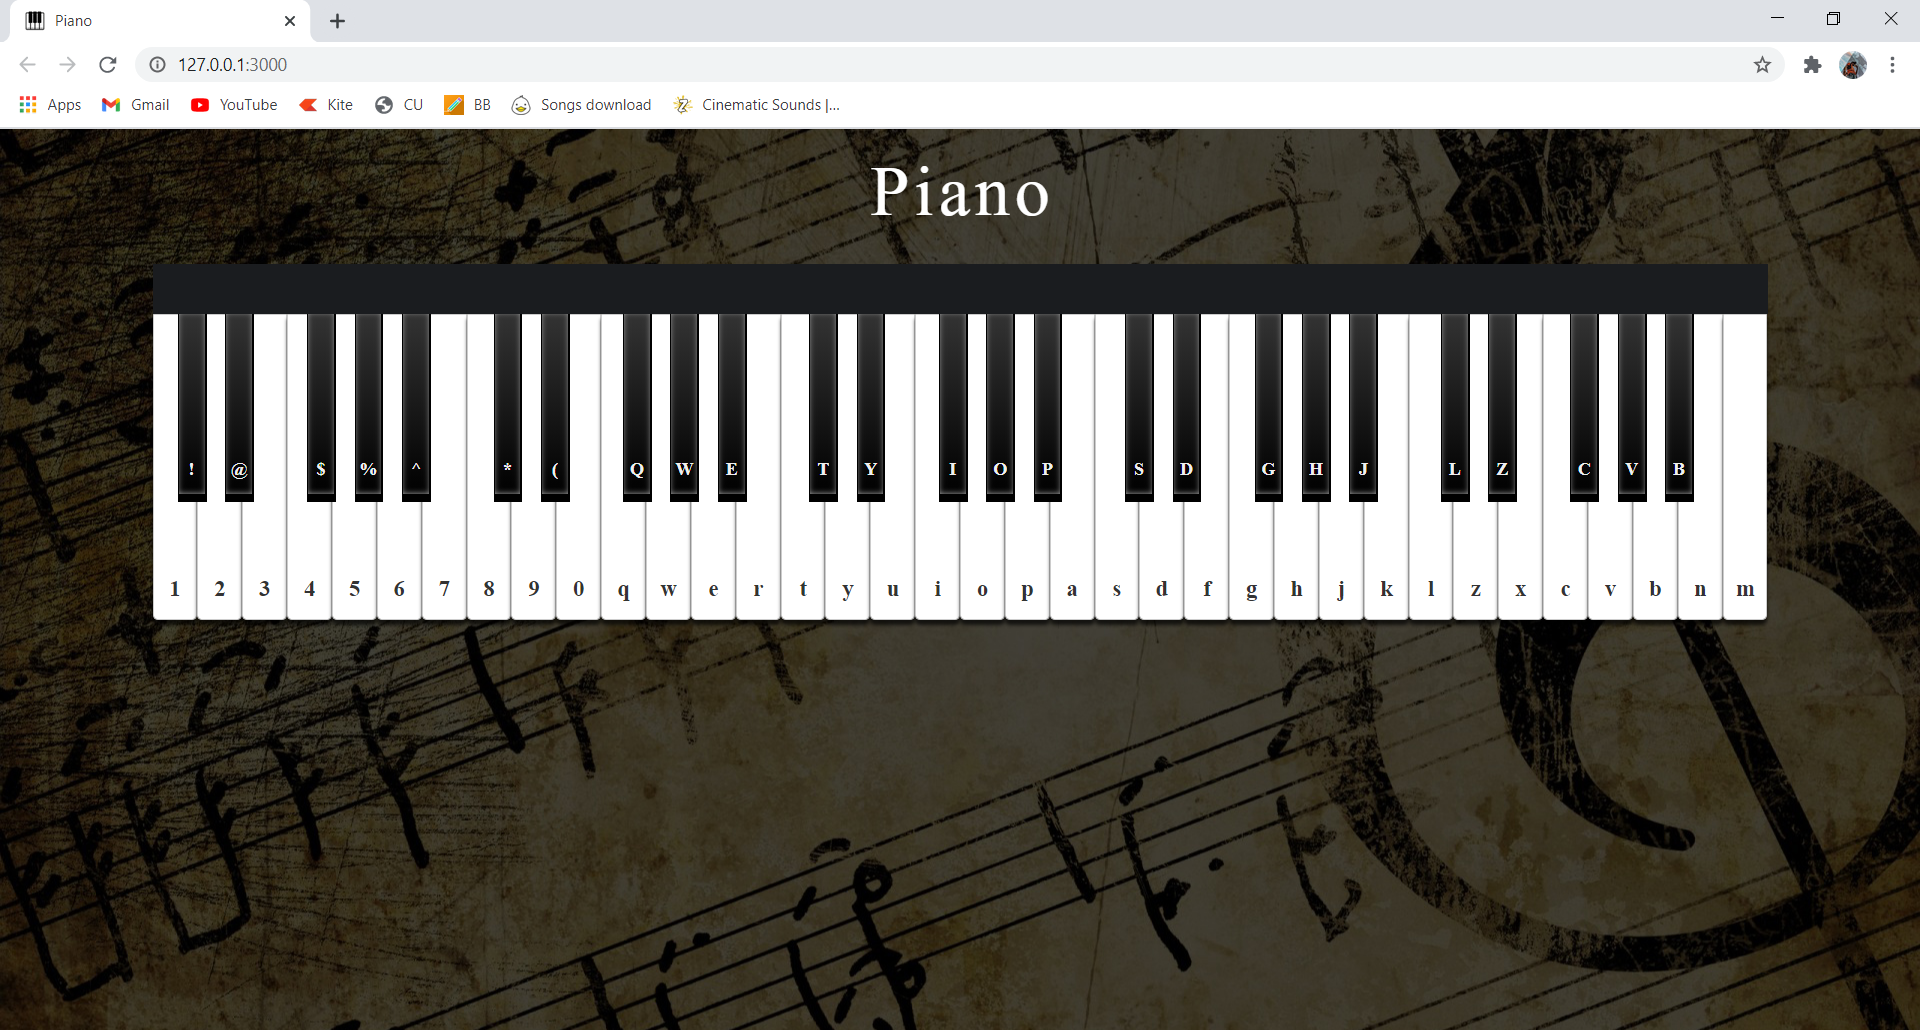
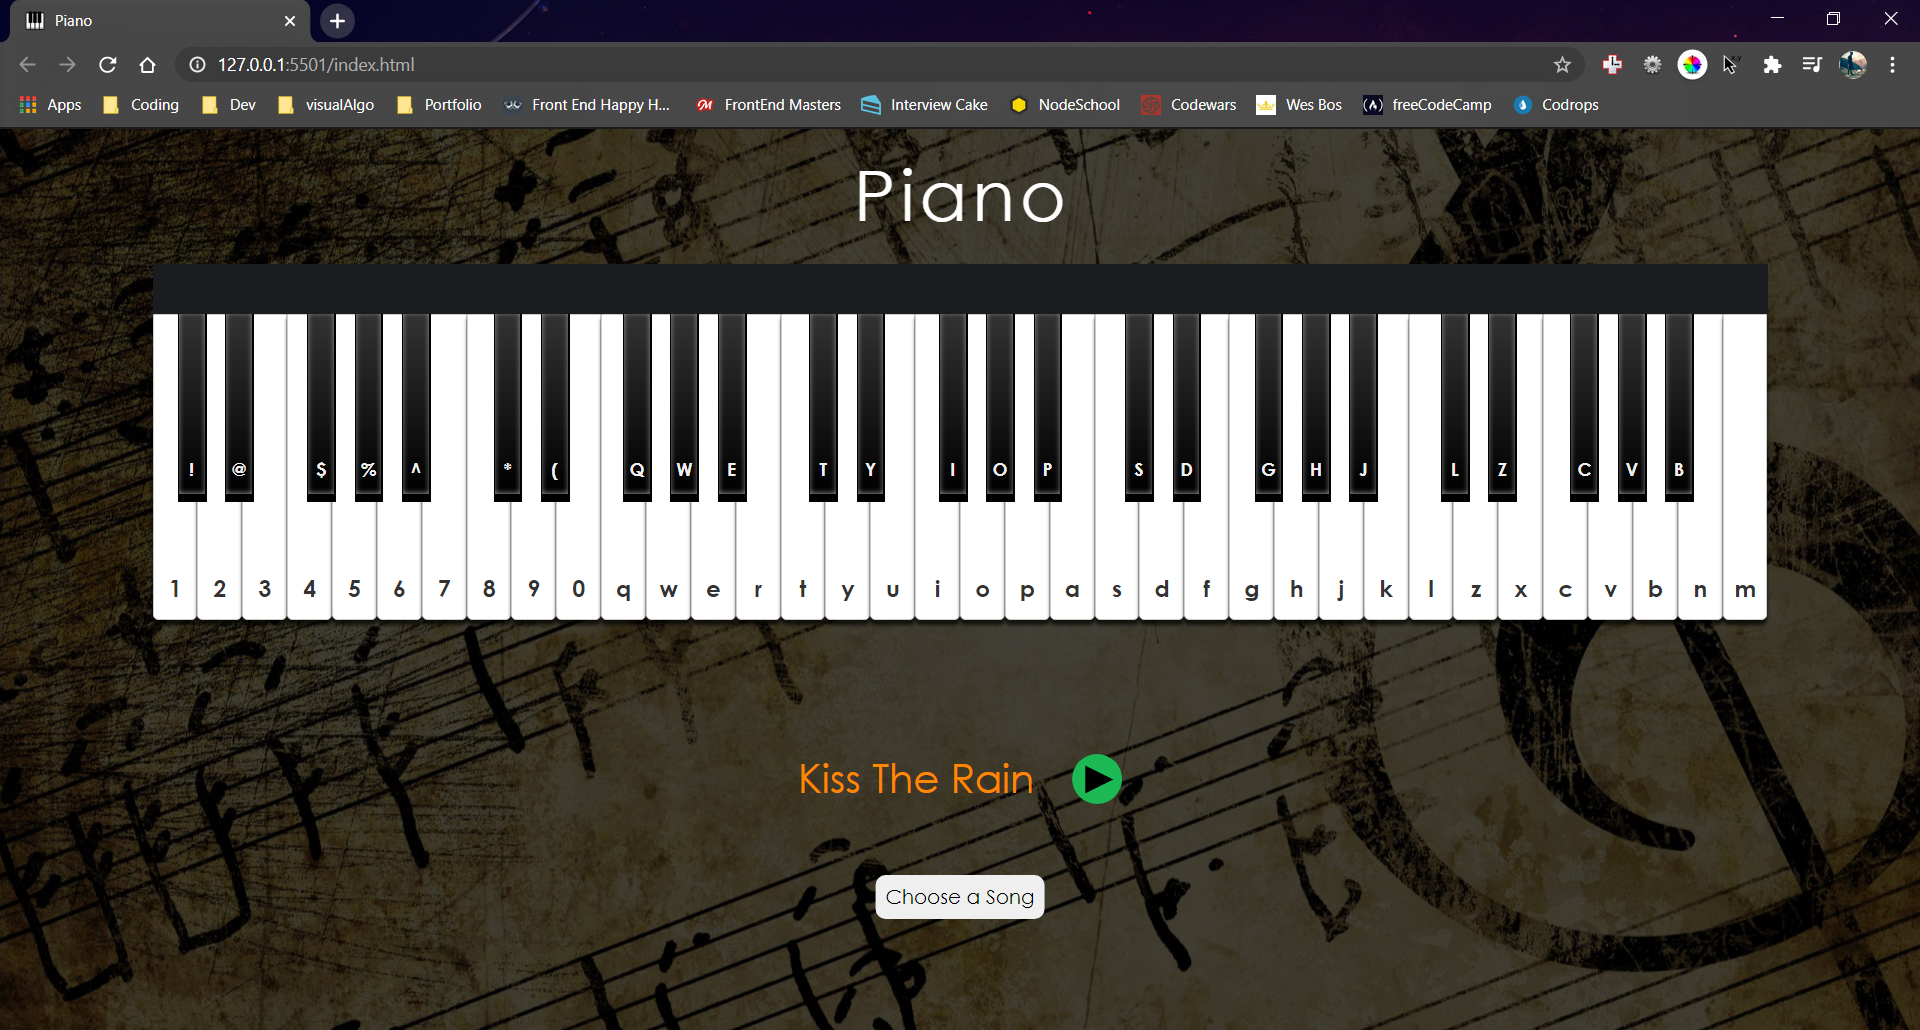
Loader added

diff --git a/src/Scripts/piano.js b/src/Scripts/piano.js
@@ -1,4 +1,5 @@
 var autoBtn = document.querySelector(".auto-play");
+var loader = document.querySelector(".loader");
 var songSheet = "";
 var customSheet =
 	"s/f.el..uk.pl...k.l.q.s.th.l..o.g.o.&#13;&#10;8d..f..0g..ush..f..rad..y..o..s.a.";
@@ -21,8 +22,7 @@ var listOfSongs = [
 // fetches song to auto Play  from local directory
 getSong();
 
-const keyboardStr =
-	"1234567890qwertyuiopasdfghjklzxcvbnm!@$%^*(QWETYIOPSDGHJLZCVB";
+const keyboardStr = "1234567890qwertyuiopasdfghjklzxcvbnm!@$%^*(QWETYIOPSDGHJLZCVB";
 var white = document.querySelector(".piano-white");
 
 //Creating Piano keys
@@ -56,6 +56,9 @@ for (let i = 1; i <= 25; i++) {
 	appendAudio(`b${i}`);
 }
 
+// Setting up onLoad
+window.addEventListener("load", () => loader.classList.add("hidden"));
+
 // Mouse Click Event Piano
 var pianoKey = document.querySelector(".piano-container");
 pianoKey.addEventListener("mousedown", pressKeyAndPlay);
@@ -64,9 +67,7 @@ pianoKey.addEventListener("mousedown", pressKeyAndPlay);
 window.addEventListener("keydown", keyBoardKeyPressed);
 
 // Undo Animation after playing
-allKeys.forEach((key) =>
-	addEventListener("transitionend", removeKeyPressedClass)
-);
+allKeys.forEach((key) => addEventListener("transitionend", removeKeyPressedClass));
 
 document.querySelector(".auto-play").addEventListener("click", autoPlay);
 
@@ -77,9 +78,7 @@ document.querySelector(".list-btn").addEventListener("click", showAllSongs);
 
 function pressKeyAndPlay(e) {
 	// when the number on the key is clicked then e.target = keyNum div so we need to set e.target to its parent
-	let el = e.target.parentElement.getAttribute("keyColor")
-		? e.target.parentElement
-		: e.target;
+	let el = e.target.parentElement.getAttribute("keyColor") ? e.target.parentElement : e.target;
 	let keyColor = el.getAttribute("keyColor");
 	let keyNum = el.getAttribute("keyNum");
 
@@ -112,8 +111,7 @@ function playKeySound(keyColor, keyNum) {
 function keyBoardKeyPressed(e) {
 	let key = e.key ? e.key : e;
 	// this function expects an object with obj.target
-	if (keyboardStr.includes(key))
-		pressKeyAndPlay({ target: keyboardKeyToPianoKey[key] });
+	if (keyboardStr.includes(key)) pressKeyAndPlay({ target: keyboardKeyToPianoKey[key] });
 }
 
 function createWhiteKey(it) {
@@ -170,8 +168,8 @@ function autoPlay() {
 }
 
 async function playSong() {
-	if (songName=="Custom Song"){
-		songSheet = customSheet; 
+	if (songName == "Custom Song") {
+		songSheet = customSheet;
 	}
 	for (let x of songSheet) {
 		if (x == ".") {
@@ -265,29 +263,27 @@ function showAllSongs() {
 		songName = e.target.innerText;
 		if (songName == "Custom Song") {
 			customSong();
-		} 
-		else getSong();
+		} else getSong();
 	}
 }
 
 function customSong() {
 	var [popup, closePopup] = openPopup();
 	document.querySelector(".song-name").innerText = songName;
-	popup.style.backgroundColor = "rgb(210,210,210)"
+	popup.style.backgroundColor = "rgb(210,210,210)";
 
 	var grammar = document.createElement("div");
 	grammar.classList.add("grammar");
 	popup.appendChild(grammar);
 
 	var grHd = document.createElement("h2");
-	grHd.innerText = "Grammar!"
+	grHd.innerText = "Grammar!";
 	grammar.appendChild(grHd);
 
 	var lis = document.createElement("ul");
 	grammar.appendChild(lis);
 
-	lis.innerHTML = 
-	`<li>This song will be auto-saved when you close this popup</li>
+	lis.innerHTML = `<li>This song will be auto-saved when you close this popup</li>
 	<li>Dot (.) repersents delay btw two keys.</li>
 	<li>Forward slash (/) repersents half the delay of dot.</li>
 	<li>Consecutive keys will be pressed together.</li>
@@ -307,8 +303,6 @@ function customSong() {
 	textArea.spellcheck = false;
 	textArea.innerHTML = customSheet;
 	customSheet = textArea.value;
-	textArea.onchange = (e)=>customSheet = e.target.value;
+	textArea.onchange = (e) => (customSheet = e.target.value);
 	cnt.appendChild(textArea);
-
-	
 }

diff --git a/src/index.html b/src/index.html
@@ -6,21 +6,97 @@
 			href="https://fonts.googleapis.com/css2?family=Inconsolata&display=swap"
 			rel="stylesheet"
 		/>
-		<link
-			href="https://fonts.googleapis.com/css?family=Muli"
-			rel="stylesheet"
-		/>
+		<link href="https://fonts.googleapis.com/css?family=Muli" rel="stylesheet" />
 		<meta charset="UTF-8" />
 		<meta name="viewport" content="width=device-width, initial-scale=1.0" />
 		<link rel="stylesheet" href="./css/style.css" />
-		<link
-			rel="shortcut icon"
-			href="./Images/favicon.png"
-			type="image/png"
-		/>
+		<link rel="shortcut icon" href="./Images/favicon.png" type="image/png" />
 		<title>Piano</title>
 	</head>
 	<body>
+		<!------------------------------------ This is for custom loader ------------------------------->
+
+		<div class="loader">
+			<svg xmlns="http://www.w3.org/2000/svg" viewBox="0 0 477.87 347.02" width="200px">
+				<defs>
+					<style>
+						.cls-1 {
+							fill: #fff;
+						}
+						.cls-2 {
+							fill: none;
+							stroke: #000;
+							stroke-miterlimit: 10;
+							stroke-width: 20px;
+						}
+					</style>
+				</defs>
+				<g id="Layer_2" data-name="Layer 2">
+					<g id="Layer_2-2" data-name="Layer 2">
+						<g id="loading-piano">
+							<path
+								id="wk4"
+								class="cls-1"
+								d="M467.87,44.26V316.6A20.42,20.42,0,0,1,447.45,337H353.68V213.45h38.76a7.66,7.66,0,0,0,7.66-7.66v-182h47.35A20.43,20.43,0,0,1,467.87,44.26Z"
+							/>
+							<path
+								id="wk3"
+								class="cls-1"
+								d="M353.68,213.45V337H238.47V213.45h40.26a7.66,7.66,0,0,0,7.66-7.66v-182h18.79v182a7.66,7.66,0,0,0,7.66,7.66Z"
+							/>
+							<path
+								id="wk2"
+								class="cls-1"
+								d="M238.47,213.45V337H124.21V213.45h40.13a7.66,7.66,0,0,0,7.66-7.66v-182h19.48v182a7.66,7.66,0,0,0,7.66,7.66Z"
+							/>
+							<path
+								id="wk1"
+								class="cls-1"
+								d="M124.54,213.45V337H30.76A20.42,20.42,0,0,1,10.33,316.6V44.26A20.43,20.43,0,0,1,30.76,23.83H77.41v182a7.66,7.66,0,0,0,7.66,7.66Z"
+							/>
+							<g id="piano-frame">
+								<rect
+									class="cls-2"
+									x="10"
+									y="23.83"
+									width="457.87"
+									height="313.19"
+									rx="20.43"
+								/>
+								<rect x="77.09" width="94.91" height="213.45" rx="7.66" />
+								<rect x="191.48" width="94.91" height="213.45" rx="7.66" />
+								<rect x="305.18" width="94.91" height="213.45" rx="7.66" />
+								<line
+									class="cls-2"
+									x1="124.21"
+									y1="213.45"
+									x2="124.21"
+									y2="337.02"
+								/>
+								<line
+									class="cls-2"
+									x1="238.47"
+									y1="213.45"
+									x2="238.47"
+									y2="337.02"
+								/>
+								<line
+									class="cls-2"
+									x1="353.68"
+									y1="213.45"
+									x2="353.68"
+									y2="338.04"
+								/>
+							</g>
+						</g>
+					</g>
+				</g>
+			</svg>
+			<p class="load-text">Loading..</p>
+		</div>
+
+		<!----------------------------------- Main content ----------------------------------->
+
 		<div class="headder">
 			<p>P</p>
 			<p>i</p>

diff --git a/src/css/style.css b/src/css/style.css
@@ -233,7 +233,7 @@ body {
 	/* pointer-events: none; */
 }
 
-.mid-cnt{
+.mid-cnt {
 	position: fixed;
 	top: 0;
 	left: 0;
@@ -248,7 +248,7 @@ body {
 .popup {
 	background: rgba(231, 231, 231, 0.8);
 	border-radius: 12px;
-	
+
 	font-size: 1.1em;
 	filter: drop-shadow(0px 0px 6px rgba(0, 0, 0, 0.4));
 	display: flex;
@@ -261,20 +261,20 @@ body {
 	padding: 25px;
 }
 
-.list-song{
+.list-song {
 	margin-top: 0;
 	font-family: "Muli";
 	cursor: pointer;
 }
-.list-song:hover{
+.list-song:hover {
 	text-shadow: 0 0 2px rgb(206, 110, 0);
 }
 
-.active-song{
+.active-song {
 	color: rgb(206, 110, 0);
 }
 
-.cus-song:hover{
+.cus-song:hover {
 	text-shadow: 0 0 3px rgb(0, 206, 93);
 }
 
@@ -298,23 +298,115 @@ body {
 	width: 33vw;
 	height: 50vh;
 	font-size: 1.3rem;
-	font-family: 'Inconsolata', monospace;
+	font-family: "Inconsolata", monospace;
 }
 
-h2{
+h2 {
 	text-align: center;
 	font-size: 2rem;
 	font-family: Century Gothic;
 	margin-top: 0;
 }
 
-.grammar{
+.grammar {
 	margin: auto 0;
 	margin-right: 2vw;
 	max-width: 20vw;
 	font-family: Arial, Helvetica, sans-serif;
 }
 
-.grammar li{
+.grammar li {
 	margin-bottom: 6px;
+}
+
+/********************************--Loader--********************************/
+
+.loader {
+	position: fixed;
+	z-index: 999;
+	top: 0;
+	left: 0;
+	width: 100vw;
+	height: 100vh;
+	background-color: rgb(77, 77, 77);
+	display: flex;
+	flex-direction: column;
+	justify-content: center;
+	align-items: center;
+}
+
+.loader.hidden {
+	animation: fadeOut 0.6s 0.8s ease-in forwards;
+}
+
+.load-text {
+	font-size: 2em;
+	font-family: "Muli";
+	color: rgb(141, 255, 118);
+}
+
+#wk1 {
+	animation: a1 1.6s ease-in-out infinite;
+}
+#wk2 {
+	animation: a2 1.6s 0.4s ease-in-out infinite;
+}
+#wk3 {
+	animation: a3 1.6s 0.8s ease-in-out infinite;
+}
+#wk4 {
+	animation: a4 1.6s 1.2s ease-in-out infinite;
+}
+body {
+	text-align: center;
+}
+@keyframes a1 {
+	0%,
+	33% {
+		fill: white;
+	}
+	5%,
+	22% {
+		fill: #44c5cb;
+	}
+}
+
+@keyframes a2 {
+	0%,
+	33% {
+		fill: white;
+	}
+	5%,
+	22% {
+		fill: #fce315;
+	}
+}
+
+@keyframes a3 {
+	0%,
+	33% {
+		fill: white;
+	}
+	5%,
+	22% {
+		fill: #f53d52;
+	}
+}
+
+@keyframes a4 {
+	0%,
+	33% {
+		fill: white;
+	}
+	5%,
+	22% {
+		fill: #ff9200;
+	}
+}
+
+@keyframes fadeOut {
+	100% {
+		opacity: 0;
+		visibility: hidden;
+	}
 }
